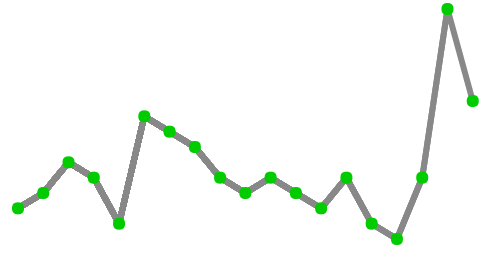
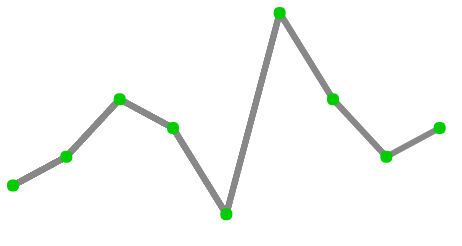
changed screenshot to match example code

Changed region(s): [[0.3939, 0.0, 0.9697, 0.9675], [0.0, 0.3699, 0.4242, 0.9106]]

diff --git a/README.md b/README.md
@@ -15,16 +15,16 @@ Sample implemenations: http://mcmonty2600.github.io/simpleplot/
 
 ### Basic Example
 
-In the simplest case, a data plot is created by passing in a canvas element and an array of numbers, without additional configuration parameters 
+In the simplest case, a data plot is created by passing in a canvas element and an array of numbers, without additional configuration parameters
 ```
 <script>
-  data = [2,3,5,4,1,8,7]];
+  data = [2,3,5,4,1,8,5,3,4]];
   simpleplot(c3, data);
 </script>
 ```
 ![image failed to load](screenshots/plot_plain.PNG "basic plot without parameters and no canvas formatting")
 
-### Configuration 
+### Configuration
 
 Each simpleplot istance can be customized by passing in configuration parameters to overwrite default values.
 
@@ -49,7 +49,7 @@ Each simpleplot istance can be customized by passing in configuration parameters
 Optionally add a threshold line to the plot. Points above the threshold can be colored differently than below. Threshold is configurable with the **threshold** parameter object, which has attributes:
 
 | threshold attribute | Default |
-| ------------- | ------------- | 
+| ------------- | ------------- |
 | enable | false |
 | value | undefined |
 | lineColor | '#444' |
@@ -58,6 +58,3 @@ Optionally add a threshold line to the plot. Points above the threshold can be c
 | colorUnderThreshold | '#ef1e25' |
 | textColor | '#888' |
 | formatThresholdValueFunction | undefined |
-
-
-
